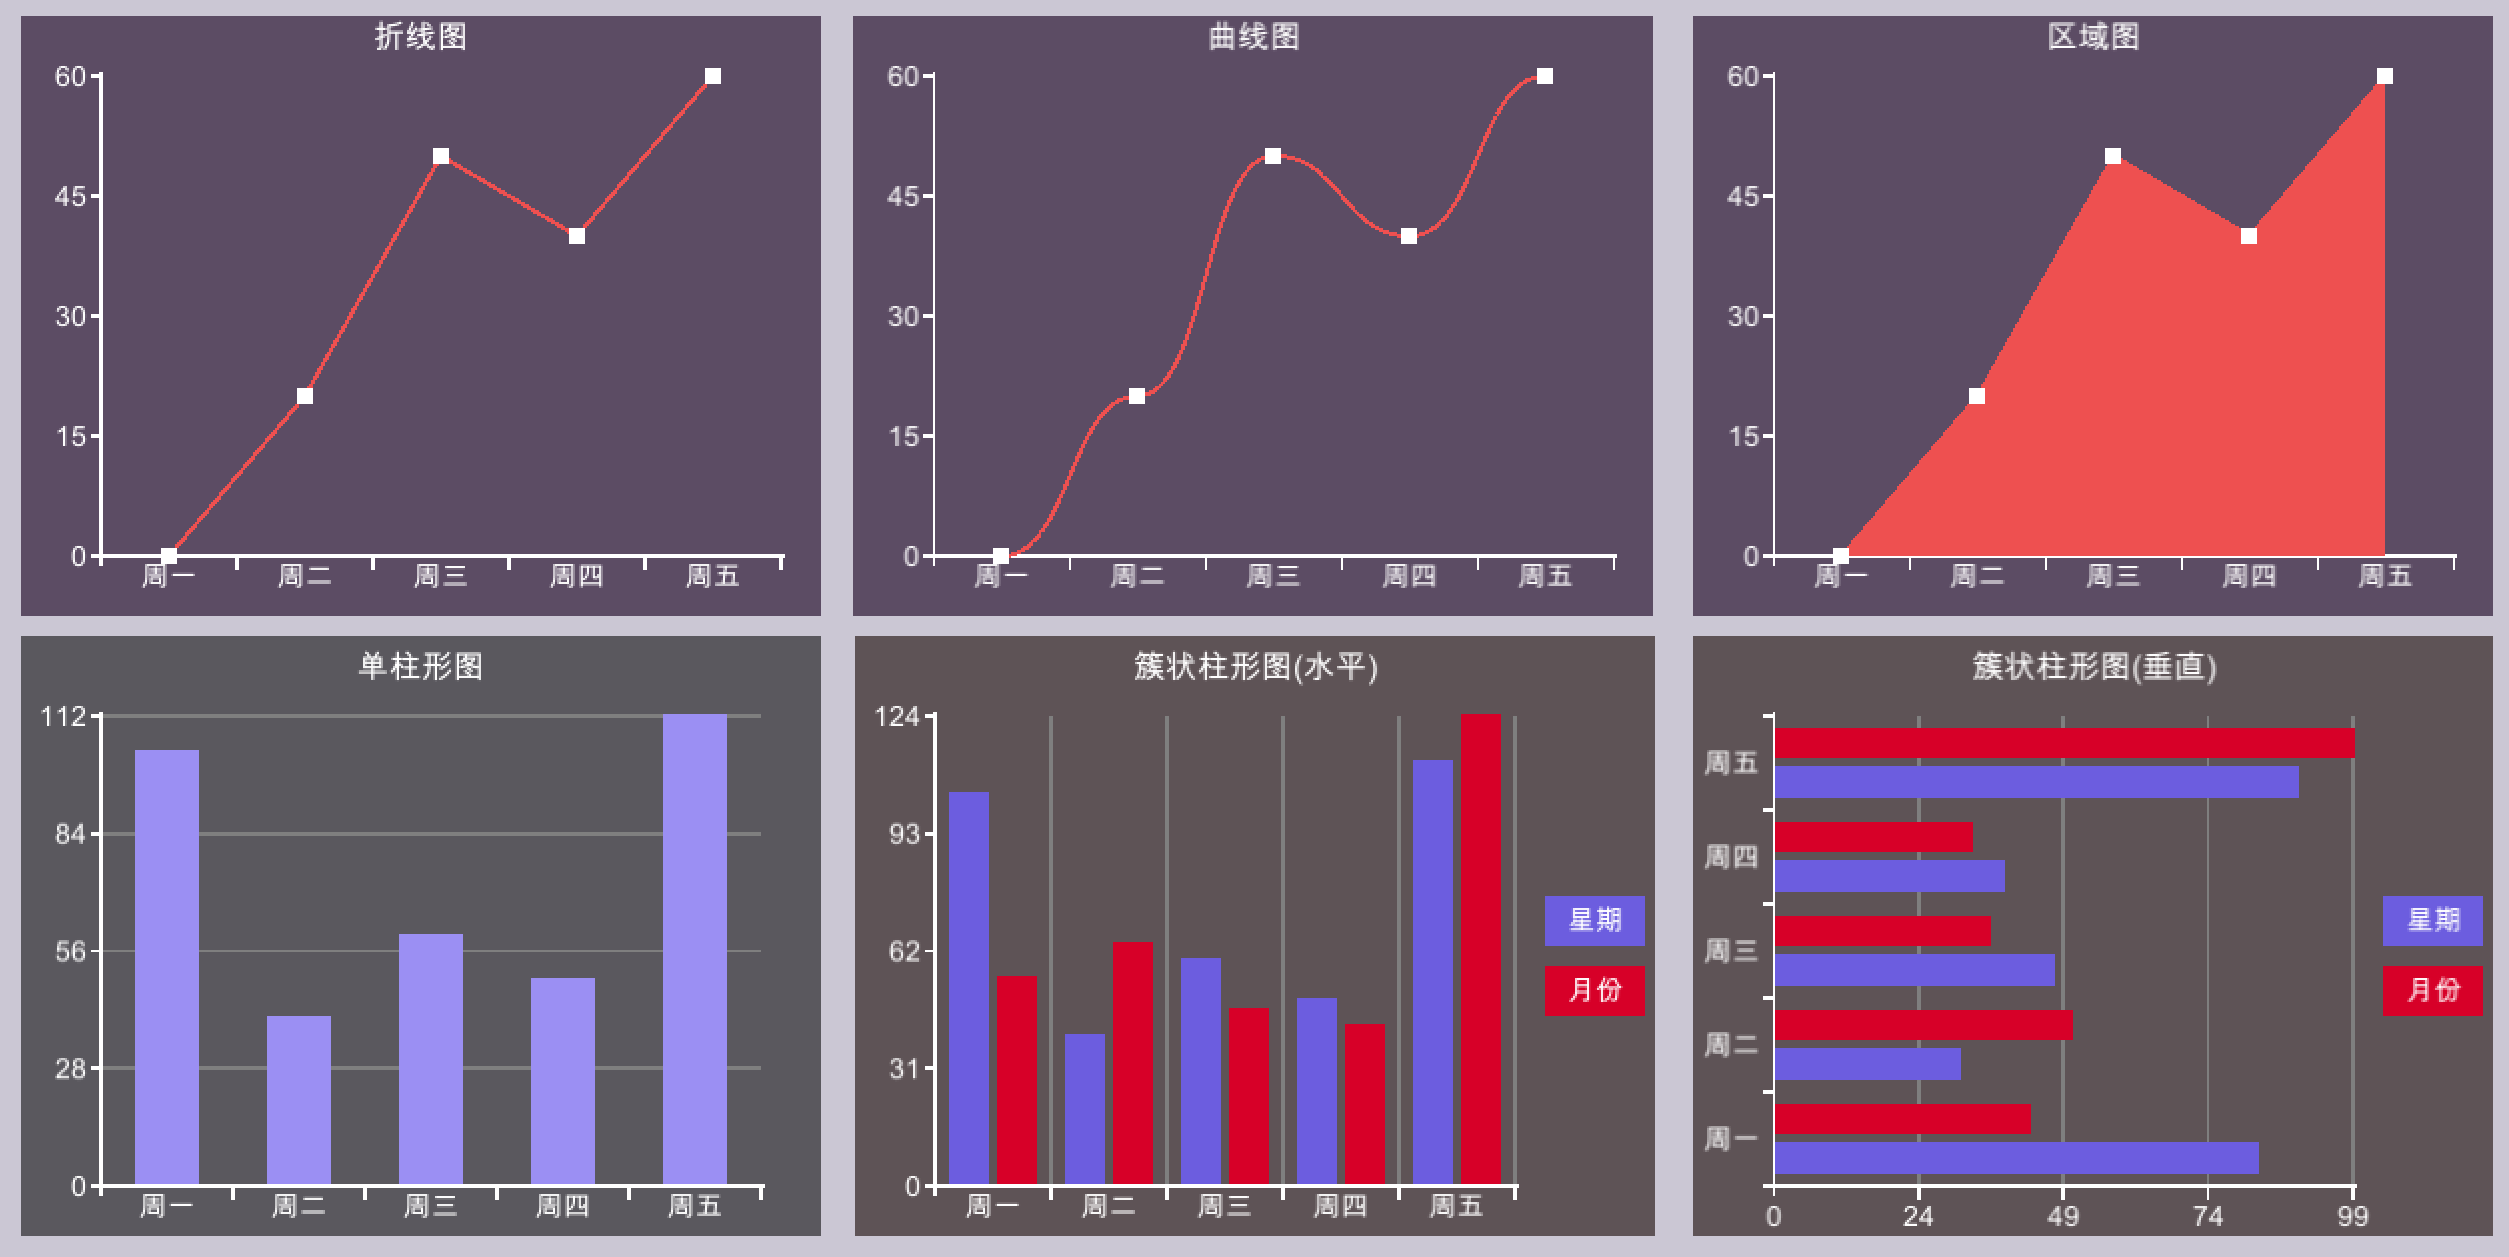
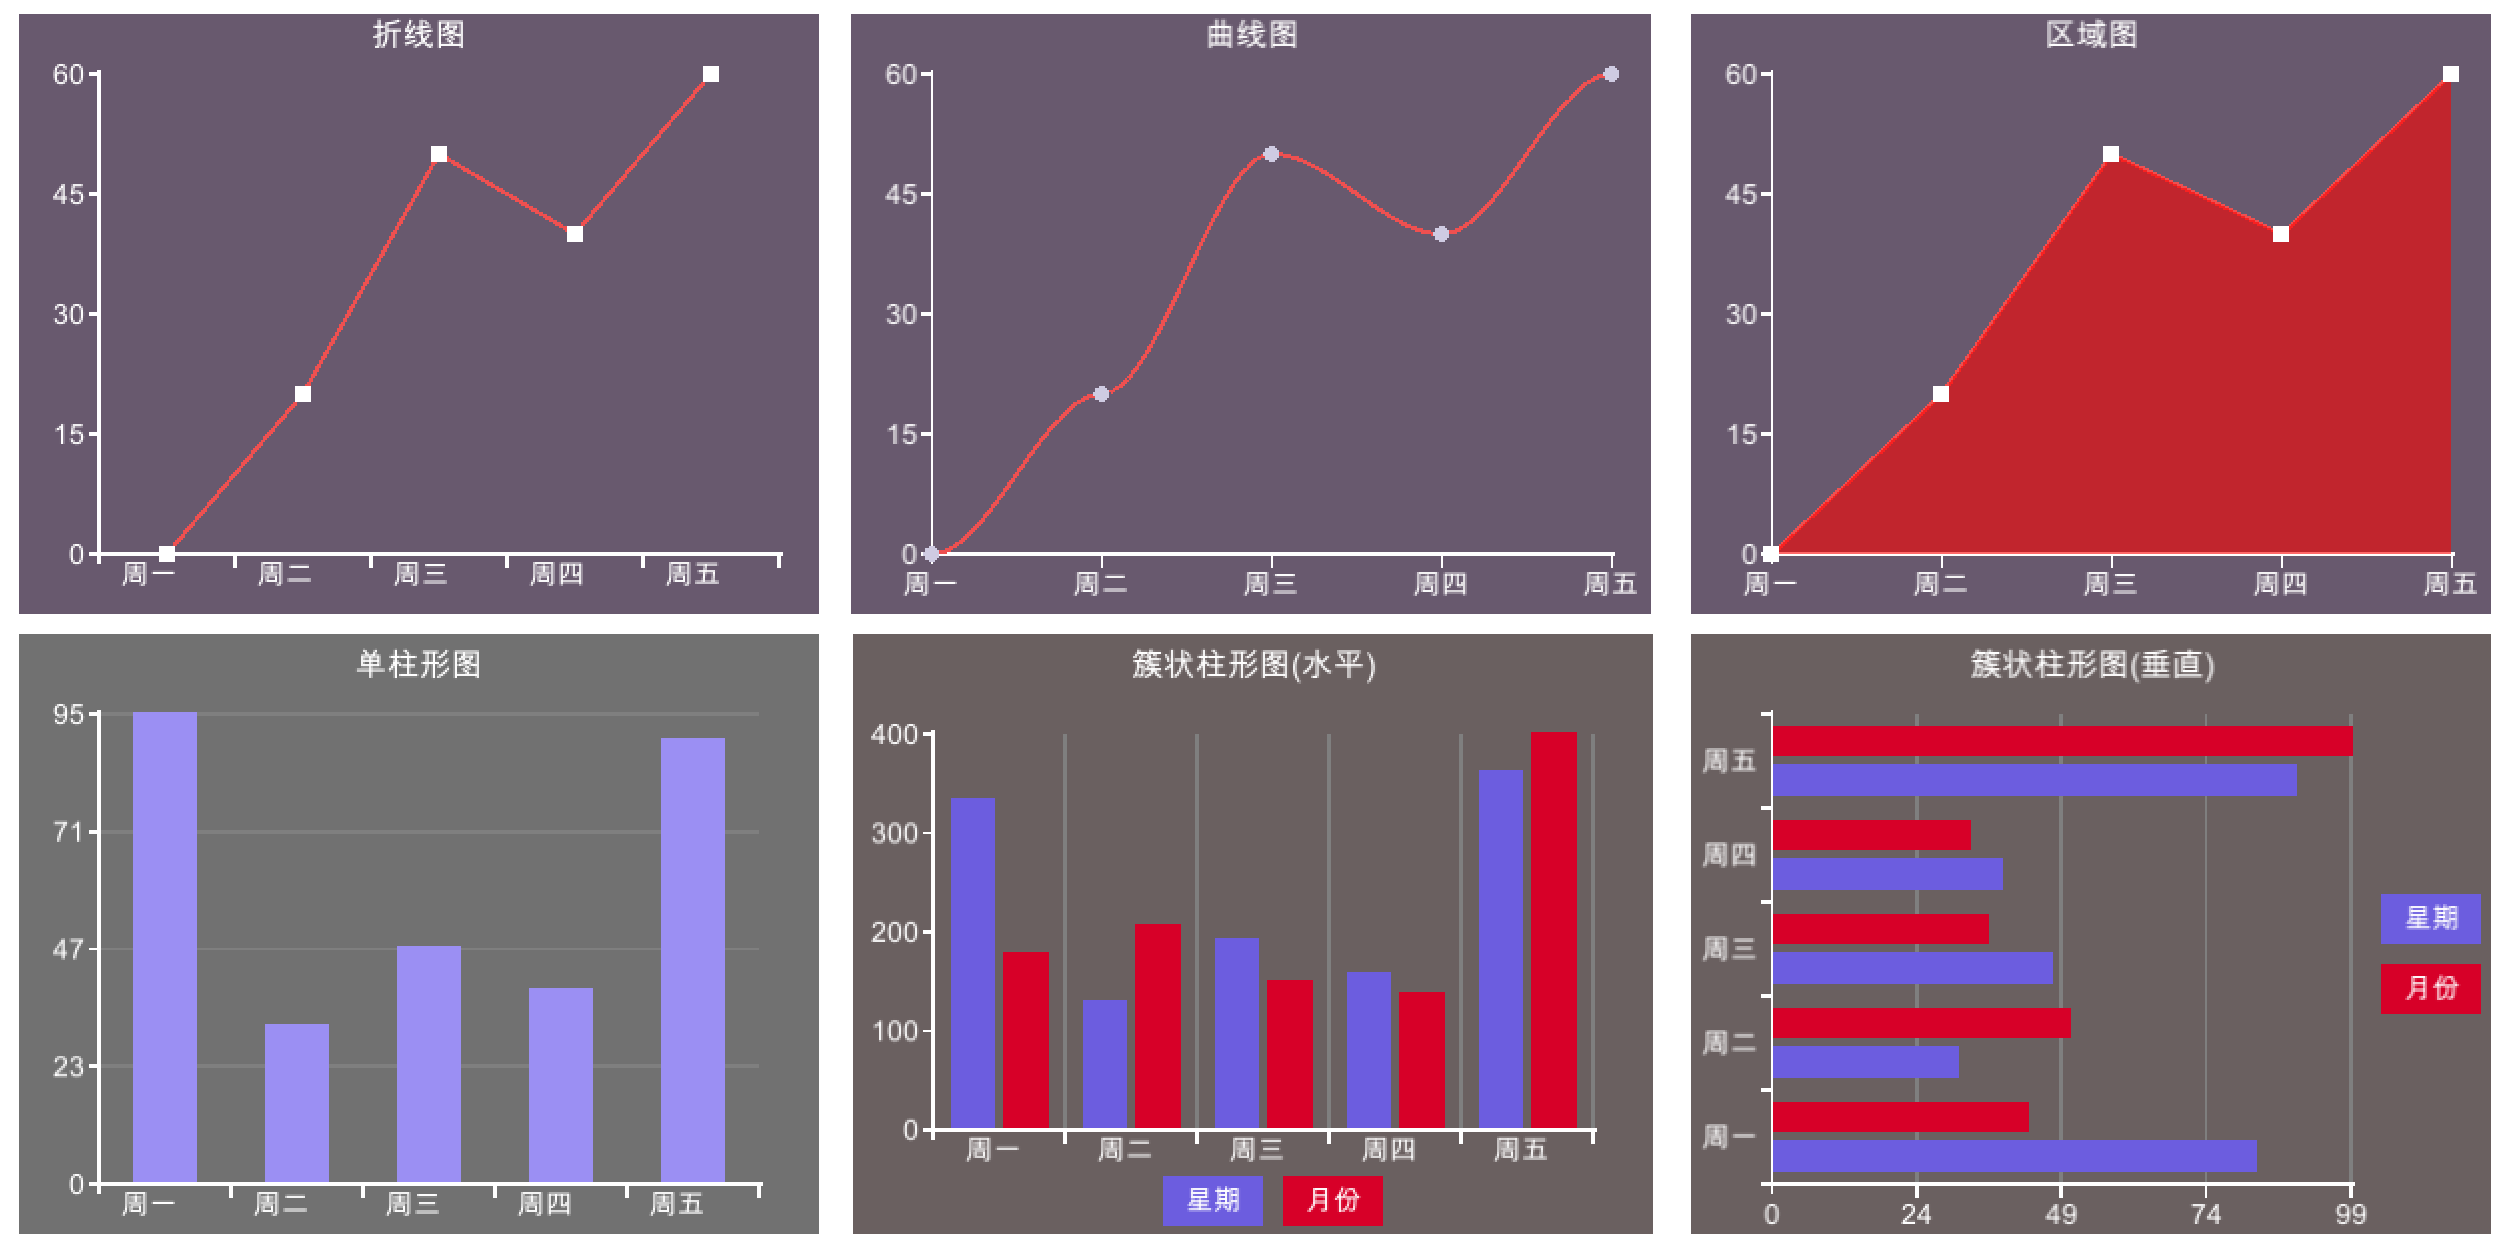
XY轴增加参数boundaryGap设置数据起始与原点的偏移

diff --git a/Assets/XCharts/Scripts/BaseChart.cs b/Assets/XCharts/Scripts/BaseChart.cs
@@ -74,6 +74,7 @@ namespace xcharts
         public AxisType type;
         public int splitNumber = 5;
         public bool showSplitLine;
+        public bool boundaryGap = true;
         public List<string> data;
     }
 
@@ -197,9 +198,6 @@ namespace xcharts
         private float lastCoordinateHig;
         private float lastCoordinateScaleLen;
 
-        private AxisType lastYAxisType;
-        private AxisType lastXAxisType;
-
         private Align lastTitleAlign;
         private float lastTitleLeft;
         private float lastTitleRight;
@@ -209,6 +207,8 @@ namespace xcharts
         private float lastYMaxValue;
 
         private Legend checkLegend = new Legend();
+        private XAxis checkXAxis = new XAxis();
+        private YAxis checkYAxis = new YAxis();
         //===========================================
 
         protected Text titleText;
@@ -228,8 +228,6 @@ namespace xcharts
             rectTransform.anchorMax = Vector2.zero;
             rectTransform.anchorMin = Vector2.zero;
             rectTransform.pivot = Vector2.zero;
-            lastYAxisType = yAxis.type;
-            lastXAxisType = xAxis.type;
             lastCoordinateHig = chartHig;
             lastCoordinateWid = chartWid;
             lastCoordinateScaleLen = coordinate.scaleLen;
@@ -308,6 +306,8 @@ namespace xcharts
             yScaleTextList.Clear();
             if (yAxis.type == AxisType.value)
             {
+                float max = GetMaxValue();
+                if (max <= 0) max = 400;
                 yAxis.splitNumber = DEFAULT_YSACLE_NUM;
                 for (int i = 0; i < yAxis.splitNumber; i++)
                 {
@@ -315,14 +315,14 @@ namespace xcharts
                         TextAnchor.MiddleRight, Vector2.zero, Vector2.zero, new Vector2(1, 0.5f),
                         new Vector2(coordinate.left, 20));
                     txt.transform.localPosition = GetYScalePosition(i);
-                    txt.text = (i * 100).ToString();
+                    txt.text = ((int)(max * i / yAxis.splitNumber)).ToString();
                     yScaleTextList.Add(txt);
                 }
             }
             else
             {
-                yAxis.splitNumber = yAxis.data.Count + 1;
-                for (int i = 0; i < yAxis.splitNumber - 1; i++)
+                yAxis.splitNumber = yAxis.boundaryGap ? yAxis.data.Count + 1 : yAxis.data.Count;
+                for (int i = 0; i < yAxis.data.Count; i++)
                 {
                     Text txt = ChartUtils.AddTextObject(YSCALE_TEXT_PREFIX + i, transform, font,
                         TextAnchor.MiddleRight, Vector2.zero, Vector2.zero, new Vector2(1, 0.5f),
@@ -339,6 +339,8 @@ namespace xcharts
             xScaleTextList.Clear();
             if (xAxis.type == AxisType.value)
             {
+                float max = GetMaxValue();
+                if (max <= 0) max = 400;
                 xAxis.splitNumber = DEFAULT_YSACLE_NUM;
                 float scaleWid = coordinateWid / (xAxis.splitNumber - 1);
                 for (int i = 0; i < xAxis.splitNumber; i++)
@@ -347,15 +349,15 @@ namespace xcharts
                         TextAnchor.MiddleCenter, Vector2.zero, Vector2.zero, new Vector2(1, 0.5f),
                         new Vector2(scaleWid, 20));
                     txt.transform.localPosition = GetXScalePosition(i);
-                    txt.text = (i * 100).ToString();
+                    txt.text = ((int)(max * i / xAxis.splitNumber)).ToString();
                     xScaleTextList.Add(txt);
                 }
             }
             else
             {
-                xAxis.splitNumber = xAxis.data.Count + 1;
-                float scaleWid = coordinateWid / (xAxis.splitNumber - 1);
-                for (int i = 0; i < xAxis.splitNumber - 1; i++)
+                xAxis.splitNumber = xAxis.boundaryGap ? xAxis.data.Count + 1 : xAxis.data.Count;
+                float scaleWid = coordinateWid / (xAxis.data.Count - 1);
+                for (int i = 0; i < xAxis.data.Count; i++)
                 {
                     Text txt = ChartUtils.AddTextObject(XSCALE_TEXT_PREFIX + i, transform, font,
                         TextAnchor.MiddleCenter, Vector2.zero, Vector2.zero, new Vector2(1, 0.5f),
@@ -432,8 +434,17 @@ namespace xcharts
             }
             else
             {
-                return new Vector3(zeroX - coordinate.scaleLen - 2f,
-                zeroY + (i + 0.5f) * scaleWid, 0);
+                if (yAxis.boundaryGap)
+                {
+                    return new Vector3(zeroX - coordinate.scaleLen - 2f,
+                        zeroY + (i + 0.5f) * scaleWid, 0);
+                }
+                else
+                {
+                    return new Vector3(zeroX - coordinate.scaleLen - 2f,
+                        zeroY + i * scaleWid, 0);
+                }
+                
             }
         }
 
@@ -446,7 +457,14 @@ namespace xcharts
             }
             else
             {
-                return new Vector3(zeroX + (i + 1) * scaleWid, zeroY - coordinate.scaleLen - 5, 0);
+                if (xAxis.boundaryGap)
+                {
+                    return new Vector3(zeroX + (i + 1) * scaleWid, zeroY - coordinate.scaleLen - 5, 0);
+                }
+                else
+                {
+                    return new Vector3(zeroX + (i + 1- 0.5f) * scaleWid, zeroY - coordinate.scaleLen - 5, 0);
+                }
             }
         }
 
@@ -465,18 +483,30 @@ namespace xcharts
 
         private void CheckYAxisType()
         {
-            if (lastYAxisType != yAxis.type)
+            if (checkYAxis.type != yAxis.type ||
+                checkYAxis.boundaryGap != yAxis.boundaryGap ||
+                checkYAxis.showSplitLine != yAxis.showSplitLine ||
+                checkYAxis.splitNumber != yAxis.splitNumber)
             {
-                lastYAxisType = yAxis.type;
+                checkYAxis.type = yAxis.type;
+                checkYAxis.boundaryGap = yAxis.boundaryGap;
+                checkYAxis.showSplitLine = yAxis.showSplitLine;
+                checkYAxis.splitNumber = yAxis.splitNumber;
                 OnYAxisType();
             }
         }
 
         private void CheckXAxisType()
         {
-            if (lastXAxisType != xAxis.type)
+            if (checkXAxis.type != xAxis.type ||
+                checkXAxis.boundaryGap != xAxis.boundaryGap ||
+                checkXAxis.showSplitLine != xAxis.showSplitLine ||
+                checkXAxis.splitNumber != xAxis.splitNumber)
             {
-                lastXAxisType = xAxis.type;
+                checkXAxis.type = xAxis.type;
+                checkXAxis.boundaryGap = xAxis.boundaryGap;
+                checkXAxis.showSplitLine = xAxis.showSplitLine;
+                checkXAxis.splitNumber = xAxis.splitNumber;
                 OnXAxisType();
             }
         }
@@ -586,9 +616,10 @@ namespace xcharts
 
         protected virtual void OnXMaxValueChanged()
         {
+            float max = GetMaxValue();
             for (int i = 0; i < xScaleTextList.Count; i++)
             {
-                xScaleTextList[i].text = ((int)(lastXMaxValue * i / xScaleTextList.Count)).ToString();
+                xScaleTextList[i].text = ((int)(max * i / xScaleTextList.Count)).ToString();
             }
         }
 

diff --git a/Assets/XCharts/Scripts/BarChart.cs b/Assets/XCharts/Scripts/BarChart.cs
@@ -47,6 +47,7 @@ namespace xcharts
                         SeriesData data = series.dataList[i];
                         float pX = zeroX + coordinate.tickness;
                         float pY = zeroY + i * coordinateHig / (yAxis.splitNumber - 1);
+                        if (!yAxis.boundaryGap) pY -= scaleWid / 2;
                         float barHig = data.value / max * coordinateWid;
                         float space = offset + j * (barWid + barData.space);
                         Vector3 p1 = new Vector3(pX, pY + space + barWid);
@@ -73,6 +74,7 @@ namespace xcharts
                     {
                         SeriesData data = series.dataList[i];
                         float pX = zeroX + i * coordinateWid / (xAxis.splitNumber - 1);
+                        if (!xAxis.boundaryGap) pX -= scaleWid / 2;
                         float pY = zeroY + coordinate.tickness;
                         float barHig = data.value / max * coordinateHig;
                         float space = offset + j * (barWid + barData.space);

diff --git a/Assets/XCharts/Scripts/LineChart.cs b/Assets/XCharts/Scripts/LineChart.cs
@@ -64,7 +64,7 @@ namespace xcharts
                 Color color = legend.GetColor(j);
                 Vector3 lp = Vector3.zero;
                 Vector3 np = Vector3.zero;
-                float startX = zeroX + scaleWid / 2;
+                float startX = zeroX + (xAxis.boundaryGap ? scaleWid / 2 : 0);
                 for (int i = 0; i < series.dataList.Count; i++)
                 {
                     SeriesData data = series.dataList[i];
